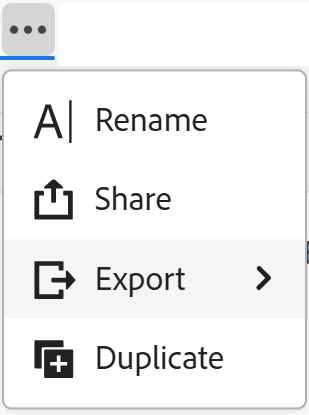
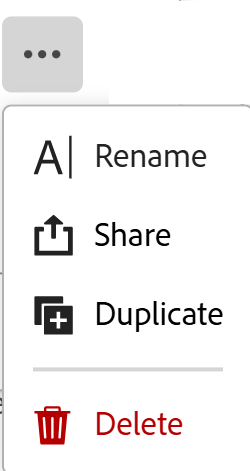
commit-aw-2-oct

diff --git a/help/quicksilver/planning/views/duplicate-record-views.md b/help/quicksilver/planning/views/duplicate-record-views.md
@@ -9,9 +9,11 @@ exl-id: 441a53d1-ad39-41b7-93fe-2ae1836476c9
 ---
 # Duplicate record views
 
-<!--<span class="preview">The highlighted information on this page refers to functionality not yet generally available. It is available only in the Preview environment for all customers. After the monthly releases to Production, the same features are also available in the Production environment for customers who enabled fast releases. </span>   
+<!--remove preview and production references-->
 
-<span class="preview">For information about fast releases, see [Enable or disable fast releases for your organization](/help/quicksilver/administration-and-setup/set-up-workfront/configure-system-defaults/enable-fast-release-process.md). </span>-->
+<span class="preview">The highlighted information on this page refers to functionality not yet generally available. It is available only in the Preview environment for all customers. After the monthly releases to Production, the same features are also available in the Production environment for customers who enabled fast releases. </span>   
+
+<span class="preview">For information about fast releases, see [Enable or disable fast releases for your organization](/help/quicksilver/administration-and-setup/set-up-workfront/configure-system-defaults/enable-fast-release-process.md). </span>
 
 
 {{planning-important-intro}}
@@ -101,12 +103,11 @@ Duplicating views is identical for all types of views in Workfront Planning.
     The record type page opens. 
     By default, all the records of the type selected display in the table view. 
 
-1. Hover over the tab of the view you want to duplicate, and click the **More** menu ![More menu](assets/more-menu.png) to the right of the view name, then click **Duplicate**. 
+1. Depending on which environment you use, do the following: 
 
-    ![View more menu on a record view](assets/view-more-menu-with-duplicate-option.png)
+   * In the Production environment, hover over one the of the view's names in the view tab, then click **More** ![More menu](assets/more-menu.png) to the left of the view name, then click **Duplicate**. 
+   * <span class="preview">In the Preview environment, click the dropdown icon ![Dropdown icon](assets/drop-down-icon.png) next to the current view name, hover over the name of a view, click **More**, then **Duplicate**.</span> 
 
-   <!--at preview release, replace the step above with this one: 
-    1. Depending on which environment you use, do the following: 
-    * In the Production environment, hover over one the of the view's names in the view tab, then click **More** ![More menu](assets/more-menu.png) to the left of the view name, then click **Duplicate**. 
-    * <span class="preview">In the Preview environment, click the dropdown icon ![Dropdown icon](assets/drop-down-icon.png) next to the current view name, hover over the name of a view, click **More**, then **Duplicate**.</span>-->    
-    The view is duplicated and the new view's name follows the following pattern: `Original view's name (Copy)`. The new view tab displays at the end of all view tabs.
+      ![More menu on view with options](assets/more-menu-for-views-expanded-with-delete-option.png)
+       
+      The view is duplicated and the new view's name follows the following pattern: `Original view's name (Copy)`. The new view tab displays at the end of all view tabs.

diff --git a/help/quicksilver/planning/views/delete-record-views.md b/help/quicksilver/planning/views/delete-record-views.md
@@ -9,9 +9,9 @@ exl-id: f86971bc-e807-459e-9fa8-dc34967bc069
 ---
 # Delete record views
 
-<!--<span class="preview">The highlighted information on this page refers to functionality not yet generally available. It is available only in the Preview environment for all customers. After the monthly releases to Production, the same features are also available in the Production environment for customers who enabled fast releases. </span>   
+<span class="preview">The highlighted information on this page refers to functionality not yet generally available. It is available only in the Preview environment for all customers. After the monthly releases to Production, the same features are also available in the Production environment for customers who enabled fast releases. </span>   
 
-<span class="preview">For information about fast releases, see [Enable or disable fast releases for your organization](/help/quicksilver/administration-and-setup/set-up-workfront/configure-system-defaults/enable-fast-release-process.md). </span>-->
+<span class="preview">For information about fast releases, see [Enable or disable fast releases for your organization](/help/quicksilver/administration-and-setup/set-up-workfront/configure-system-defaults/enable-fast-release-process.md). </span>
 
 
 {{planning-important-intro}}
@@ -98,18 +98,20 @@ The view is deleted for all users who have permissions to access it. Deleted vie
 
     By default, all the records of the selected type display in the table view. 
 
-1. Hover over one the of the view's names in the view tab, then click **More** ![More menu](assets/more-menu.png) to the left of the view name, then click **Delete**.
 
-    ![View more menu on a record view](assets/view-more-menu-with-duplicate-option.png)
+1. From the view's tab, do one of the following: 
 
-   >[!TIP]
-   >
-   >You might need to click **More** to the right of the last tab to find the view you want to delete.
+   * Depending on which environment you are accessing the view from, do the following: 
+   
+      * In the Production environment, hover over the tab name of the view you want to share and click the **More** menu ![More menu](assets/more-menu.png) to the right of the view name, then click **Delete**. 
 
-   <!--at preview release, replace the step above with this one: 
-    1. Depending on which environment you use, do the following: 
-    * In the Production environment, hover over one the of the view's names in the view tab, then click **More** ![More menu](assets/more-menu.png) to the left of the view name, then click **Delete**. 
-    * <span class="preview">In the Preview environment, click the dropdown icon ![Dropdown icon](assets/drop-down-icon.png) next to the current view name, hover over the name of a view, click **More**, then **Delete**.</span>-->
+      >[!TIP]
+      >
+      >You might need to click **More** to the right of the last tab to find the view you want to delete.
+
+      * <span class="preview"> In the Preview environment, click the view's tab, hover over the view in the drop-down menu, click the **More** menu ![More menu](assets/more-menu.png), then click **Delete**.</span>
+
+      ![More menu with options](assets/more-menu-for-views-expanded-with-delete-option.png)
 
 1. Click **Delete** to confirm. <!--ensure there is not another saving step here?!-->
     

diff --git a/help/quicksilver/manage-work/projects/define-a-business-case/create-edit-risks-on-projects.md b/help/quicksilver/manage-work/projects/define-a-business-case/create-edit-risks-on-projects.md
@@ -109,7 +109,7 @@ You can create and edit risks in the Risks section of a project or a template. C
 
    ![Risks section of task](assets/risks-section-on-project-2022.png)
 
-1. Click **Start Adding Risks** and create risks by in-line editing their information. 
+1. Click **Add More Risks** and create risks by in-line editing their information. 
 
    Or
 
@@ -125,15 +125,11 @@ You can create and edit risks in the Risks section of a project or a template. C
    
    * **Probability**: Indicate the probability of the risk occurring as a percentage value.
    * **Potential Cost**: Indicate the estimated cost if the risk should occur.
-   * **Mitigation Cost**: Indicate the cost of the mitigation plan that you must put in place to prevent the risk from occurring.
    * **Actual Cost**: Indicate the actual cost of the risk if the risk occurred.
-   * **Mitigation Plan**: Update the description of the plan to mitigate the risk.
+   * **Mitigation Cost**: Indicate the cost of the mitigation plan that you must put in place to prevent the risk from occurring.
+   * **Mitigation Plan**: Update the description of the plan to mitigate the risk.  
 
-1. (Conditional) Click **Enter** if you are creating the risk in-line.
-
-   Or
-
-   Click **Save** if you are editing the information in the **New risk** box.
+1. Click **Save**.
 
 1. (Optional) Select a different **Status** for the risk, in the **Status** drop-down menu, when applying the **Standard** view for the list of risks.
 
@@ -161,14 +157,14 @@ To edit risks:
 
 1. If you have clicked **Edit**, the **Edit risk** or **Edit risks** box opens.
 
-   Consider editing the following fields:
+   Update the following fields:
 
    * **Description**: Edit the description of the risk.
    * **Risk Type**: Update what category the risk falls under. 
    * **Probability**: Indicate the probability of the risk occurring as a percentage value.
    * **Potential Cost**: Indicate the estimated cost if the risk should occur.
-   * **Mitigation Cost**: Indicate the cost of the mitigation plan that you must put in place to prevent the risk from occurring.
    * **Actual Cost**: Indicate the actual cost of the risk if the risk occurred.
+   * **Mitigation Cost**: Indicate the cost of the mitigation plan that you must put in place to prevent the risk from occurring.
    * **Mitigation Plan**: Update the description of the plan to mitigate the risk.
 
 1. Click **Save**.

diff --git a/help/quicksilver/planning/access/share-views.md b/help/quicksilver/planning/access/share-views.md
@@ -10,9 +10,11 @@ exl-id: 673dd888-3135-48b0-8198-c8d6d6706ddf
 
 # Share views
 
-<!--<span class="preview">The highlighted information on this page refers to functionality not yet generally available. It is available only in the Preview environment for all customers. After the monthly releases to Production, the same features are also available in the Production environment for customers who enabled fast releases. </span>   
+<!--take out preview and production references at production-->
 
-<span class="preview">For information about fast releases, see [Enable or disable fast releases for your organization](/help/quicksilver/administration-and-setup/set-up-workfront/configure-system-defaults/enable-fast-release-process.md). </span>-->
+<span class="preview">The highlighted information on this page refers to functionality not yet generally available. It is available only in the Preview environment for all customers. After the monthly releases to Production, the same features are also available in the Production environment for customers who enabled fast releases. </span>   
+
+<span class="preview">For information about fast releases, see [Enable or disable fast releases for your organization](/help/quicksilver/administration-and-setup/set-up-workfront/configure-system-defaults/enable-fast-release-process.md). </span>
 
 {{planning-important-intro}}
 
@@ -135,9 +137,13 @@ You can share views you created or views you have Manage permissions to with use
 
    This opens the record type page.
 
-1. From the view tab, do one of the following:
+1. From the view's tab, do one of the following: 
 
-   * Hover over the tab name of the view you want to share and click the **More** menu ![More menu](assets/more-menu.png) to the right of the view name, then click **Share**. 
+   * Depending on which environment you are accessing the view from, do the following: 
+   
+      * In the Production environment, hover over the tab name of the view you want to share and click the **More** menu ![More menu](assets/more-menu.png) to the right of the view name, then click **Share**. 
+
+      * <span class="preview"> In the Preview environment, click the view's tab, hover over the view in the drop-down menu, click the **More** menu ![More menu](assets/more-menu.png), then click **Share**.</span>
 
       ![More menu for a view](assets/more-menu-for-views-expanded-with-share-option.png)
 

diff --git a/help/quicksilver/planning/records/edit-records.md b/help/quicksilver/planning/records/edit-records.md
@@ -229,7 +229,7 @@ For information, see [Create records](/help/quicksilver/planning/records/create-
 
     <span class="preview">![Left-end bar on timeline view to resize](assets/left-end-bar-handle-to-resize-timeline-view.png)</span>
 
-1. <span class="preview">Click a record bar, then drag and drop it in another position to update its timeline and dates. The Start and End dates of the record update automatically.</span>
+1. <span class="preview">Click and hold a record bar, then drag and drop it in another position to update its timeline and dates. The Start and End dates of the record update automatically.</span>
 
 1. Click the bar of a record to open its details area and edit all fields. 
 
@@ -244,7 +244,7 @@ For information, see [Create records](/help/quicksilver/planning/records/create-
 
     <span class="preview">![Left-end bar on calendar view to resize](assets/left-end-bar-handle-to-resize-calendar-monthly-view.png)</span>
 
-1. <span class="preview">Click a record bar, then drag and drop it in another position to update its timeline and dates. The Start and End dates of the record update automatically.</span>
+1. <span class="preview">Click and hold a record bar, then drag and drop it in another position to update its timeline and dates. The Start and End dates of the record update automatically.</span>
 
 1. Click the bar of a record to open its details area and edit all fields. 
 
@@ -372,11 +372,11 @@ For more information, see [Manage record connections from Workfront objects](/he
 
 <div class="preview">
 
-## Edit information on single- or multi-select fields
+## Edit single- or multi-select field settings when updating their values
 
 <!--some of this information is also available in Edit fields article - update both when necessary-->
 
-When editing information in a single-or multi-select field, you can add new choices to the field, without having to edit the field. 
+When you update information in a single-or multi-select field, you can add new choices to the field, without having to edit the field. 
 
 >[!IMPORTANT]
 >

diff --git a/help/quicksilver/manage-work/portfolios/create-and-manage-programs/edit-programs.md b/help/quicksilver/manage-work/portfolios/create-and-manage-programs/edit-programs.md
@@ -11,7 +11,7 @@ exl-id: 7dcdfc5a-3fc1-48a8-ae28-a6a0a458732e
 
 You can edit information on programs that you have created, or that other users have created if they shared them with you.
 
-You can edit a program in the program page or you can edit programs in a list.
+You can edit a program in the program page or you can edit one or multiple programs in bulk in a list. 
 
 ## Access requirements
 
@@ -30,7 +30,8 @@ You must have the following access to perform the steps in this article:
   </tr> 
   <tr> 
    <td role="rowheader">[!DNL Adobe Workfront] license*</td> 
-   <td> <p>New: [!UICONTROL Standard] </p><p>Or </p><p>Current: [!UICONTROL Plan] </p> </td> 
+   <td> <p>[!UICONTROL Standard]</p>
+   <p>[!UICONTROL Plan]</p> </td> 
   </tr> 
   <tr> 
    <td role="rowheader">Access level</td> 
@@ -182,4 +183,21 @@ You must have the following access to perform the steps in this article:
 
    After you save your changes, the comment you add displays in the program's [!UICONTROL Updates] tab and sends an email to the users included in it.
 1. Click **[!UICONTROL Save]**
+
+
+## Edit programs in bulk
+
+When you edit programs in bulk, all the information you update applies to all the programs selected, overriding the original information of each program.
+
+1. Go to a list of programs and select several programs. 
+1. Click the **Edit** icon ![Edit icon](assets/edit-icon.png) at the top of the list. 
+
+   The **Edit Programs** box opens.
+1. Update information in the following sections:
+
+   * Overview
+   * Custom Forms
+   * Comment
+
+   For more information, see the section [Edit programs](#edit-programs-1) in this article, starting with Step 4. <!--ensure this stays accurate-->
 

diff --git a/help/quicksilver/planning/records/manage-the-record-page.md b/help/quicksilver/planning/records/manage-the-record-page.md
@@ -336,12 +336,12 @@ To add a Connected records page:
 
      * <span class="preview">Click **Connect records** in the upper-right corner of the connected record page to connect existing projects.</span>
      * <span class="preview">Inline edit project information in the table.</span> 
-     * <span class="preview">Click **New row** to create a project without a template.</span>
+     * <span class="preview">Click **New row** to create a project without a template. The new project is connected to the current record immediately.</span>
 
          For more information, see [Create Workfront objects from Workfront Planning as you connect them to records](/help/quicksilver/planning/records/create-workfront-objects-from-workfront-planning.md)
      * <span class="preview">Hover over a project and click the **More** menu [More menu](assets/more-menu.png), then click one of the following:</span>
-        * <span class="preview">**Delete** to delete the project. Deleting a project disconnects it from the record and moves it to the Workfront recycle bin. </span>
-        * <span class="preview">**Disconnect** to disconnect the project from the record. Disconnecting a project</span>
+        * <span class="preview">**Delete** to delete the project. Deleting a project disconnects it from the record and moves it to the Workfront's Recycle Bin. </span>
+        * <span class="preview">**Disconnect** to disconnect the project from the record. Disconnecting a project removes it and all the values of its lookup fields from the current record. </span>
 
 1. (Optional) Double-click the name of the Connected records page tab
 

diff --git a/help/quicksilver/planning/views/manage-the-calendar-view.md b/help/quicksilver/planning/views/manage-the-calendar-view.md
@@ -110,9 +110,13 @@ To manage a calendar view:
 1. Go to the record type page for which you want to view the calendar. 
 1. Create a calendar view, as described in the article [Manage record views](/help/quicksilver/planning/views/manage-record-views.md). 
 
+    <div class="preview">
+
     ![Calendar view example](assets/calendar-view-example.png)
 
     The records associated with the record type you selected display as bars in a calendar. The color of the bars matches the color of the record icon, by default. 
+
+    </div>
 
 1. Do one of the following to navigate through the calendar:
 

diff --git a/help/quicksilver/manage-work/projects/create-and-manage-templates/edit-templates.md b/help/quicksilver/manage-work/projects/create-and-manage-templates/edit-templates.md
@@ -646,8 +646,6 @@ Editing templates in bulk differs depending on which environment you are using.
 
 *****************and hide the first line below************ -->
 
-To edit templates in bulk:
-
 {{step1-to-templates}}
 
 1. Select several templates in the list.
@@ -665,12 +663,11 @@ To edit templates in bulk:
 
    * Overview
    * Finance
-   * Portfolio
-   * Settings
-   * Access
    * Custom Forms
-   * Tasks
-   * Issues
+   * Template Settings
+   * Task Settings
+   * Issue Settings
+   * Access
    * Comment
 
 1. Click **Save**.

diff --git a/help/quicksilver/administration-and-setup/customize-workfront/configure-approval-milestone-processes/create-milestone-path.md b/help/quicksilver/administration-and-setup/customize-workfront/configure-approval-milestone-processes/create-milestone-path.md
@@ -111,7 +111,8 @@ For more information on how you can associate a milestone path with a project an
    </table>
 
 1. Click **Milestones** in the left panel. 
-1.In the Production environment, click **Add Milestone** to add milestones to the path. 
+
+1. In the Production environment, click **Add Milestone** to add milestones to the path. 
    <span class="preview">In the Preview environment, click **New row** to add milestones to the path.</span>
 1. Update the following information: 
 
